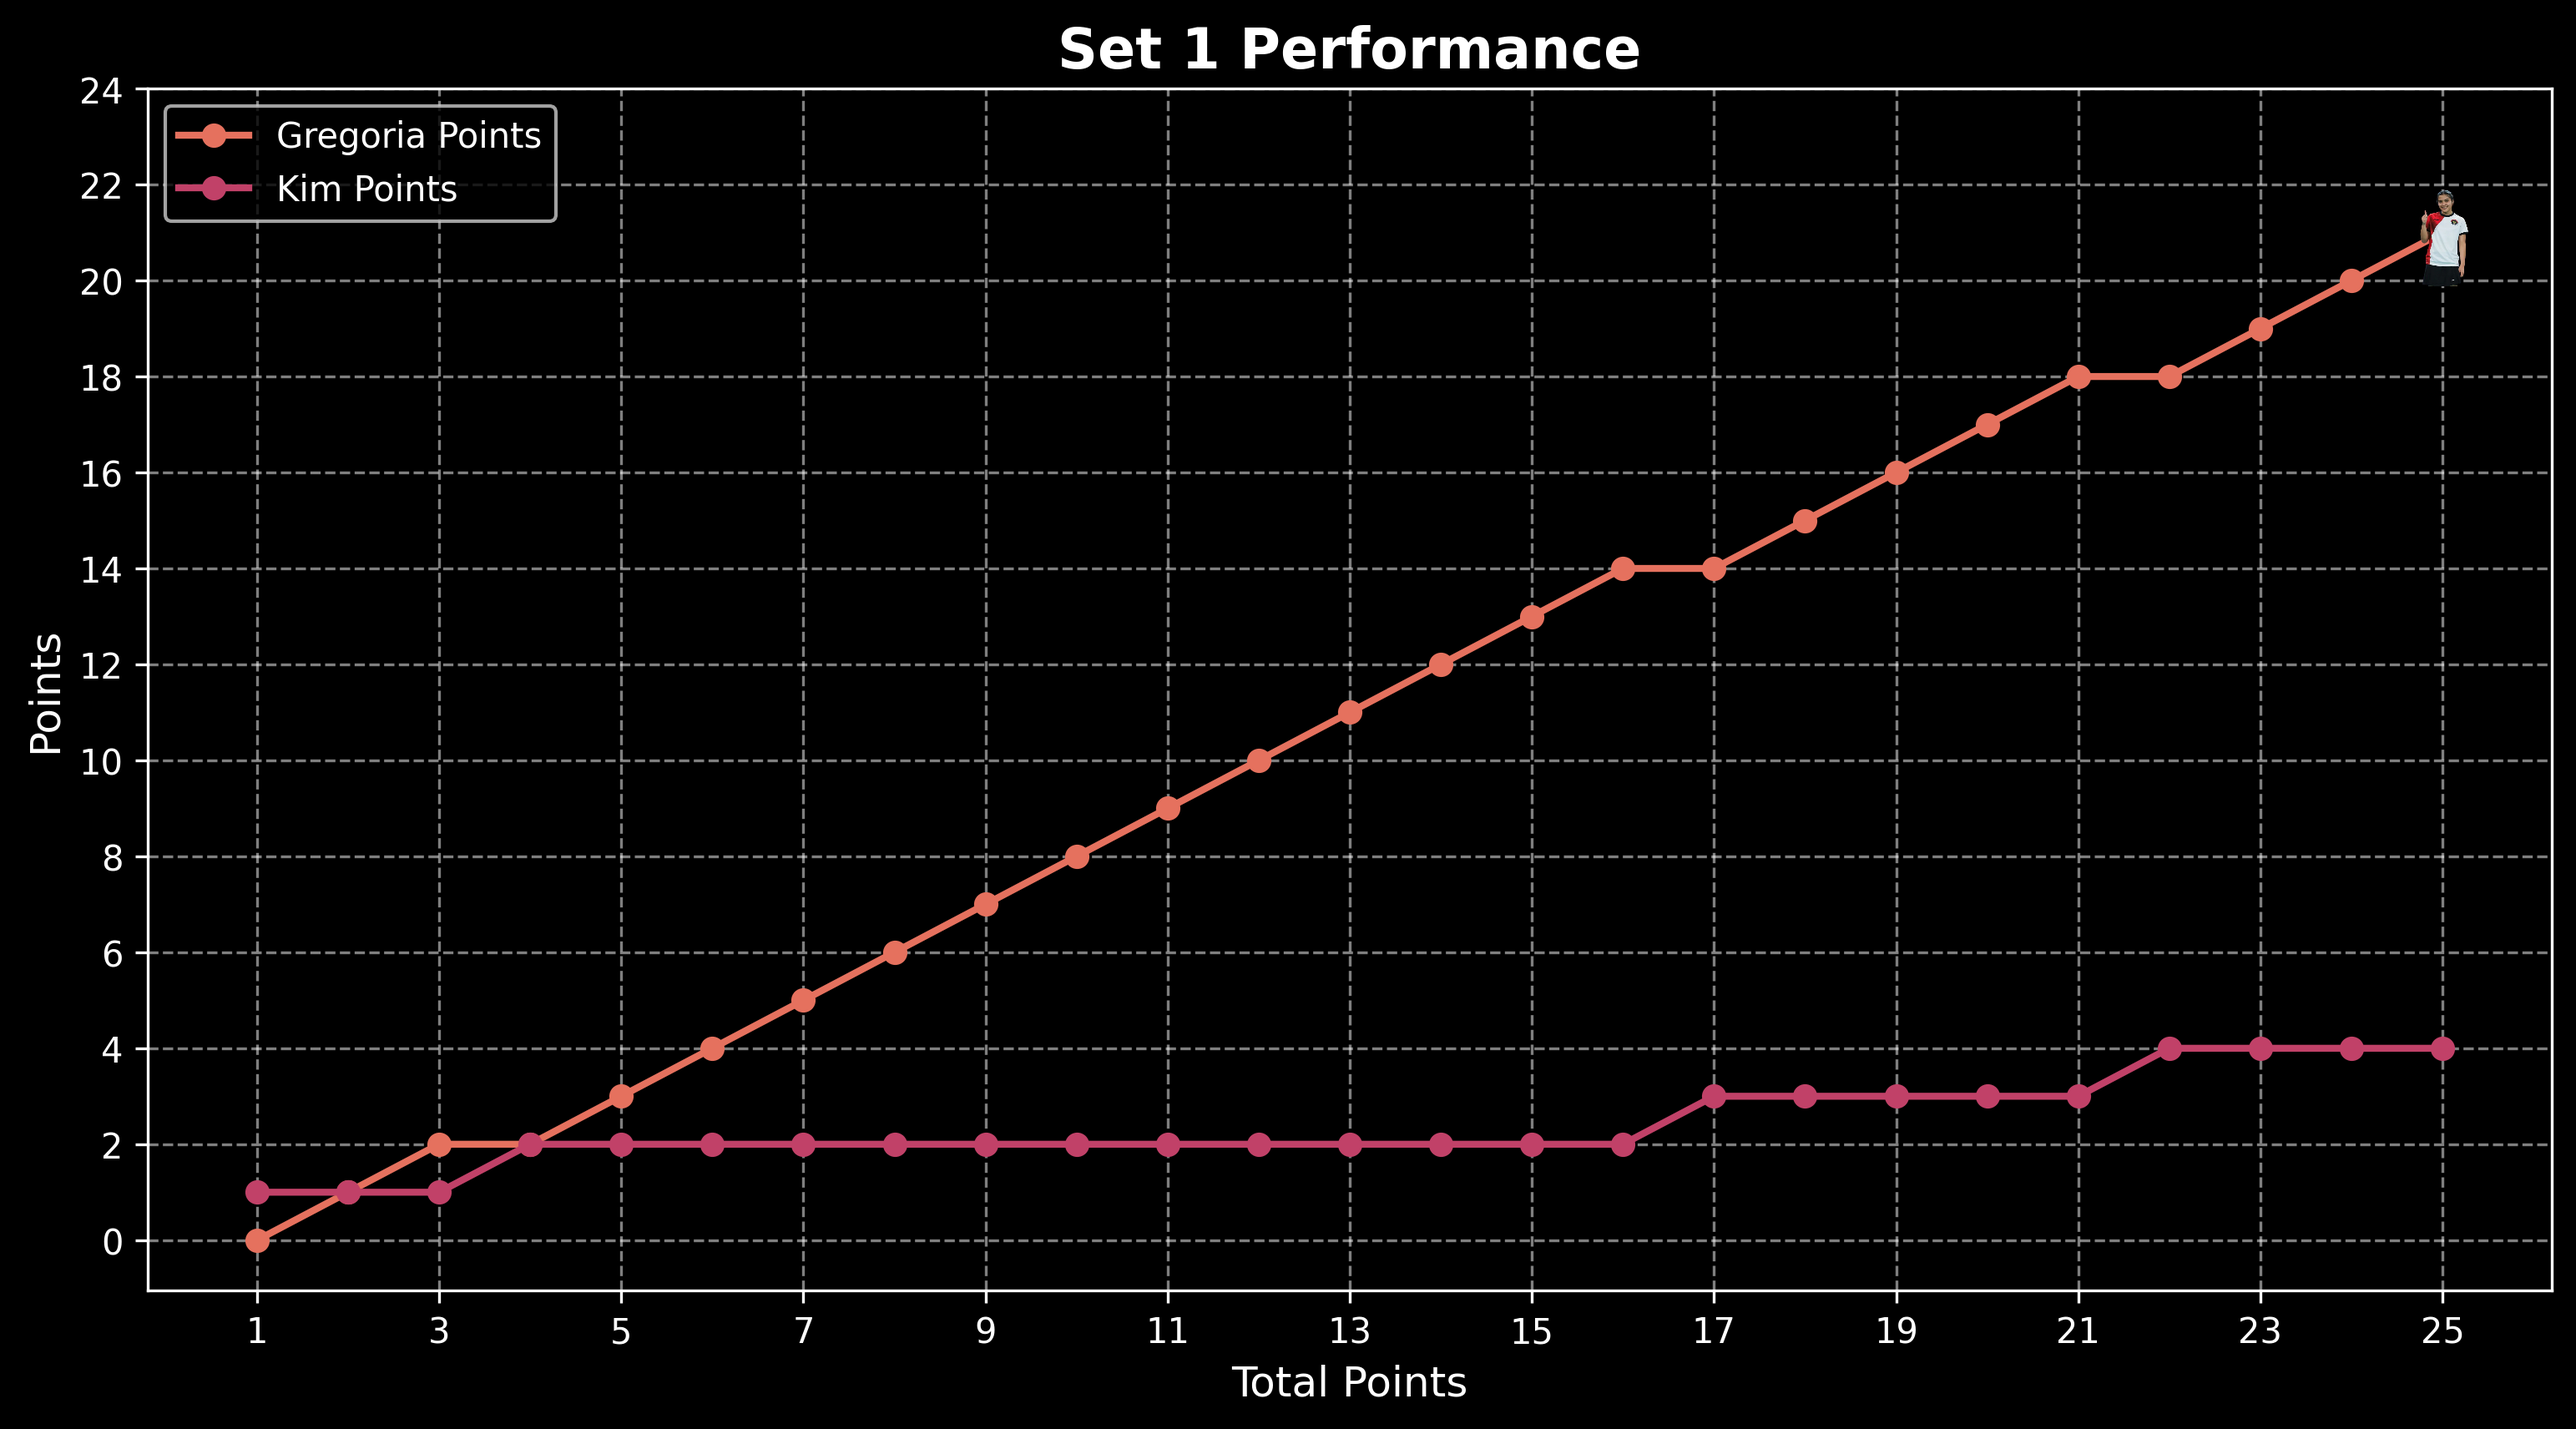
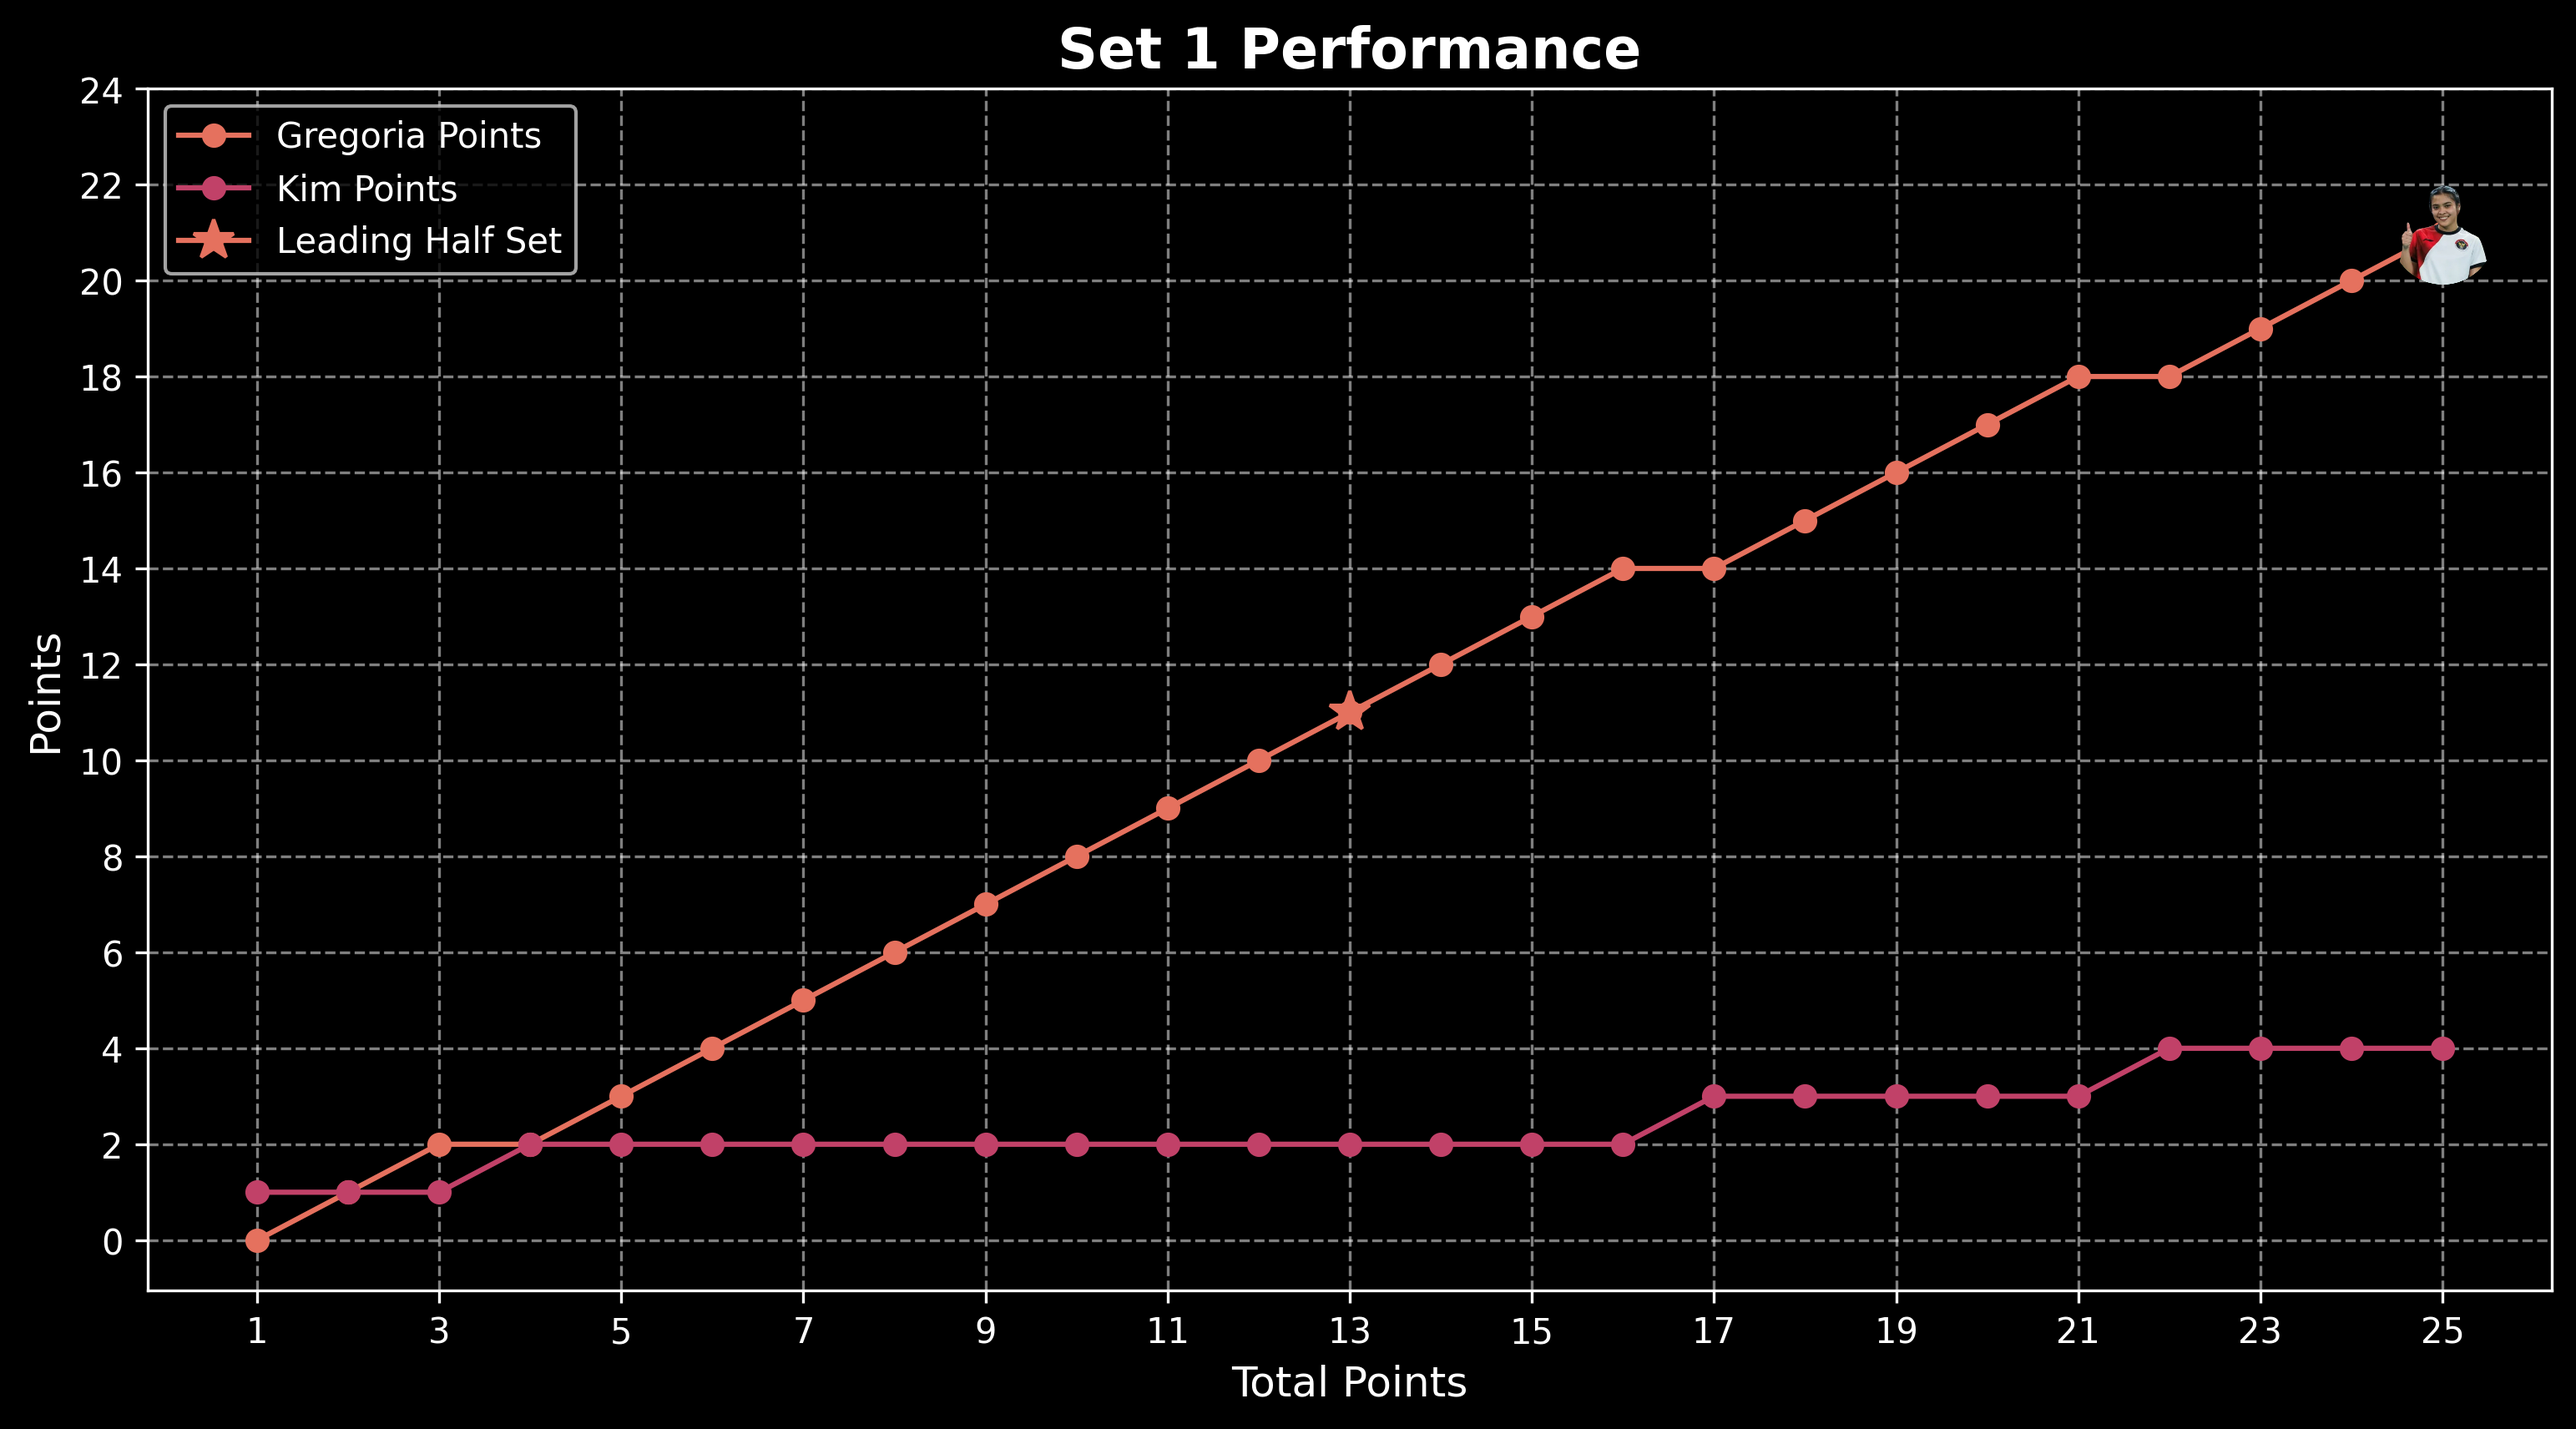
Add leading half set n crop marker

Changed region(s): [[0.0622, 0.1548, 0.2178, 0.1857], [0.9332, 0.1238, 0.9644, 0.2167]]

diff --git a/GregoriaStatistic/PlotData.py b/GregoriaStatistic/PlotData.py
@@ -9,8 +9,8 @@ file_path = 'GregoriaStatistic\QuarterFinal_GregoriaMariskaTunjungVsKimGaEun.xls
 df = pd.read_excel(file_path)
 
 # Load support file
-gregoria_marker = plt.imread('GregoriaStatistic\SourceSupport\Gregoria.png')
-kim_marker = plt.imread('GregoriaStatistic\SourceSupport/Kim.png')
+gregoria_marker = plt.imread('GregoriaStatistic\SourceSupport\Gregoria_Crop.png')
+kim_marker = plt.imread('GregoriaStatistic\SourceSupport\Kim_Crop.png')
 
 # Initialize a dictionary to store data by set
 data_by_set = {}
@@ -28,7 +28,7 @@ for number_of_set in df['Set'].unique():
 colors = sns.color_palette("flare", 3)
 
 # Custom marker 
-def custom_marker(image, zoom=0.05):
+def custom_marker(image, zoom=0.06):
     return OffsetImage(image, zoom=zoom)
 
 # Plotting the data for each set
@@ -42,8 +42,17 @@ for set_number in data_by_set:
     plt.style.use('dark_background')  # Set a dark background style
 
     # Plot each line
-    plt.plot(total_point, gregoria_point, label='Gregoria Points', color=colors[0], marker='o', linewidth=2)
-    plt.plot(total_point, kim_point, label='Kim Points', color=colors[1], marker='o', linewidth=2)
+    plt.plot(total_point, gregoria_point, label='Gregoria Points', color=colors[0], marker='o', linewidth=1.5)
+    plt.plot(total_point, kim_point, label='Kim Points', color=colors[1], marker='o', linewidth=1.5)
+
+    # Determine who reaches 11 points first and add the corresponding marker
+    gregoria_11_index = next((i for i, val in enumerate(gregoria_point) if val >= 11), None)
+    kim_11_index = next((i for i, val in enumerate(kim_point) if val >= 11), None)
+
+    if gregoria_11_index is not None and (kim_11_index is None or gregoria_11_index <= kim_11_index):
+        plt.plot(total_point[gregoria_11_index], gregoria_point[gregoria_11_index], label='Leading Half Set', color=colors[0], marker='*', markersize=12)
+    elif kim_11_index is not None and (gregoria_11_index is None or kim_11_index <= gregoria_11_index):
+        plt.plot(total_point[kim_11_index], kim_point[kim_11_index], label='Leading Half Set', color=colors[1], marker='*', markersize=12)
 
     if max(gregoria_point) > max(kim_point):
       max_index = gregoria_point.index(max(gregoria_point))
